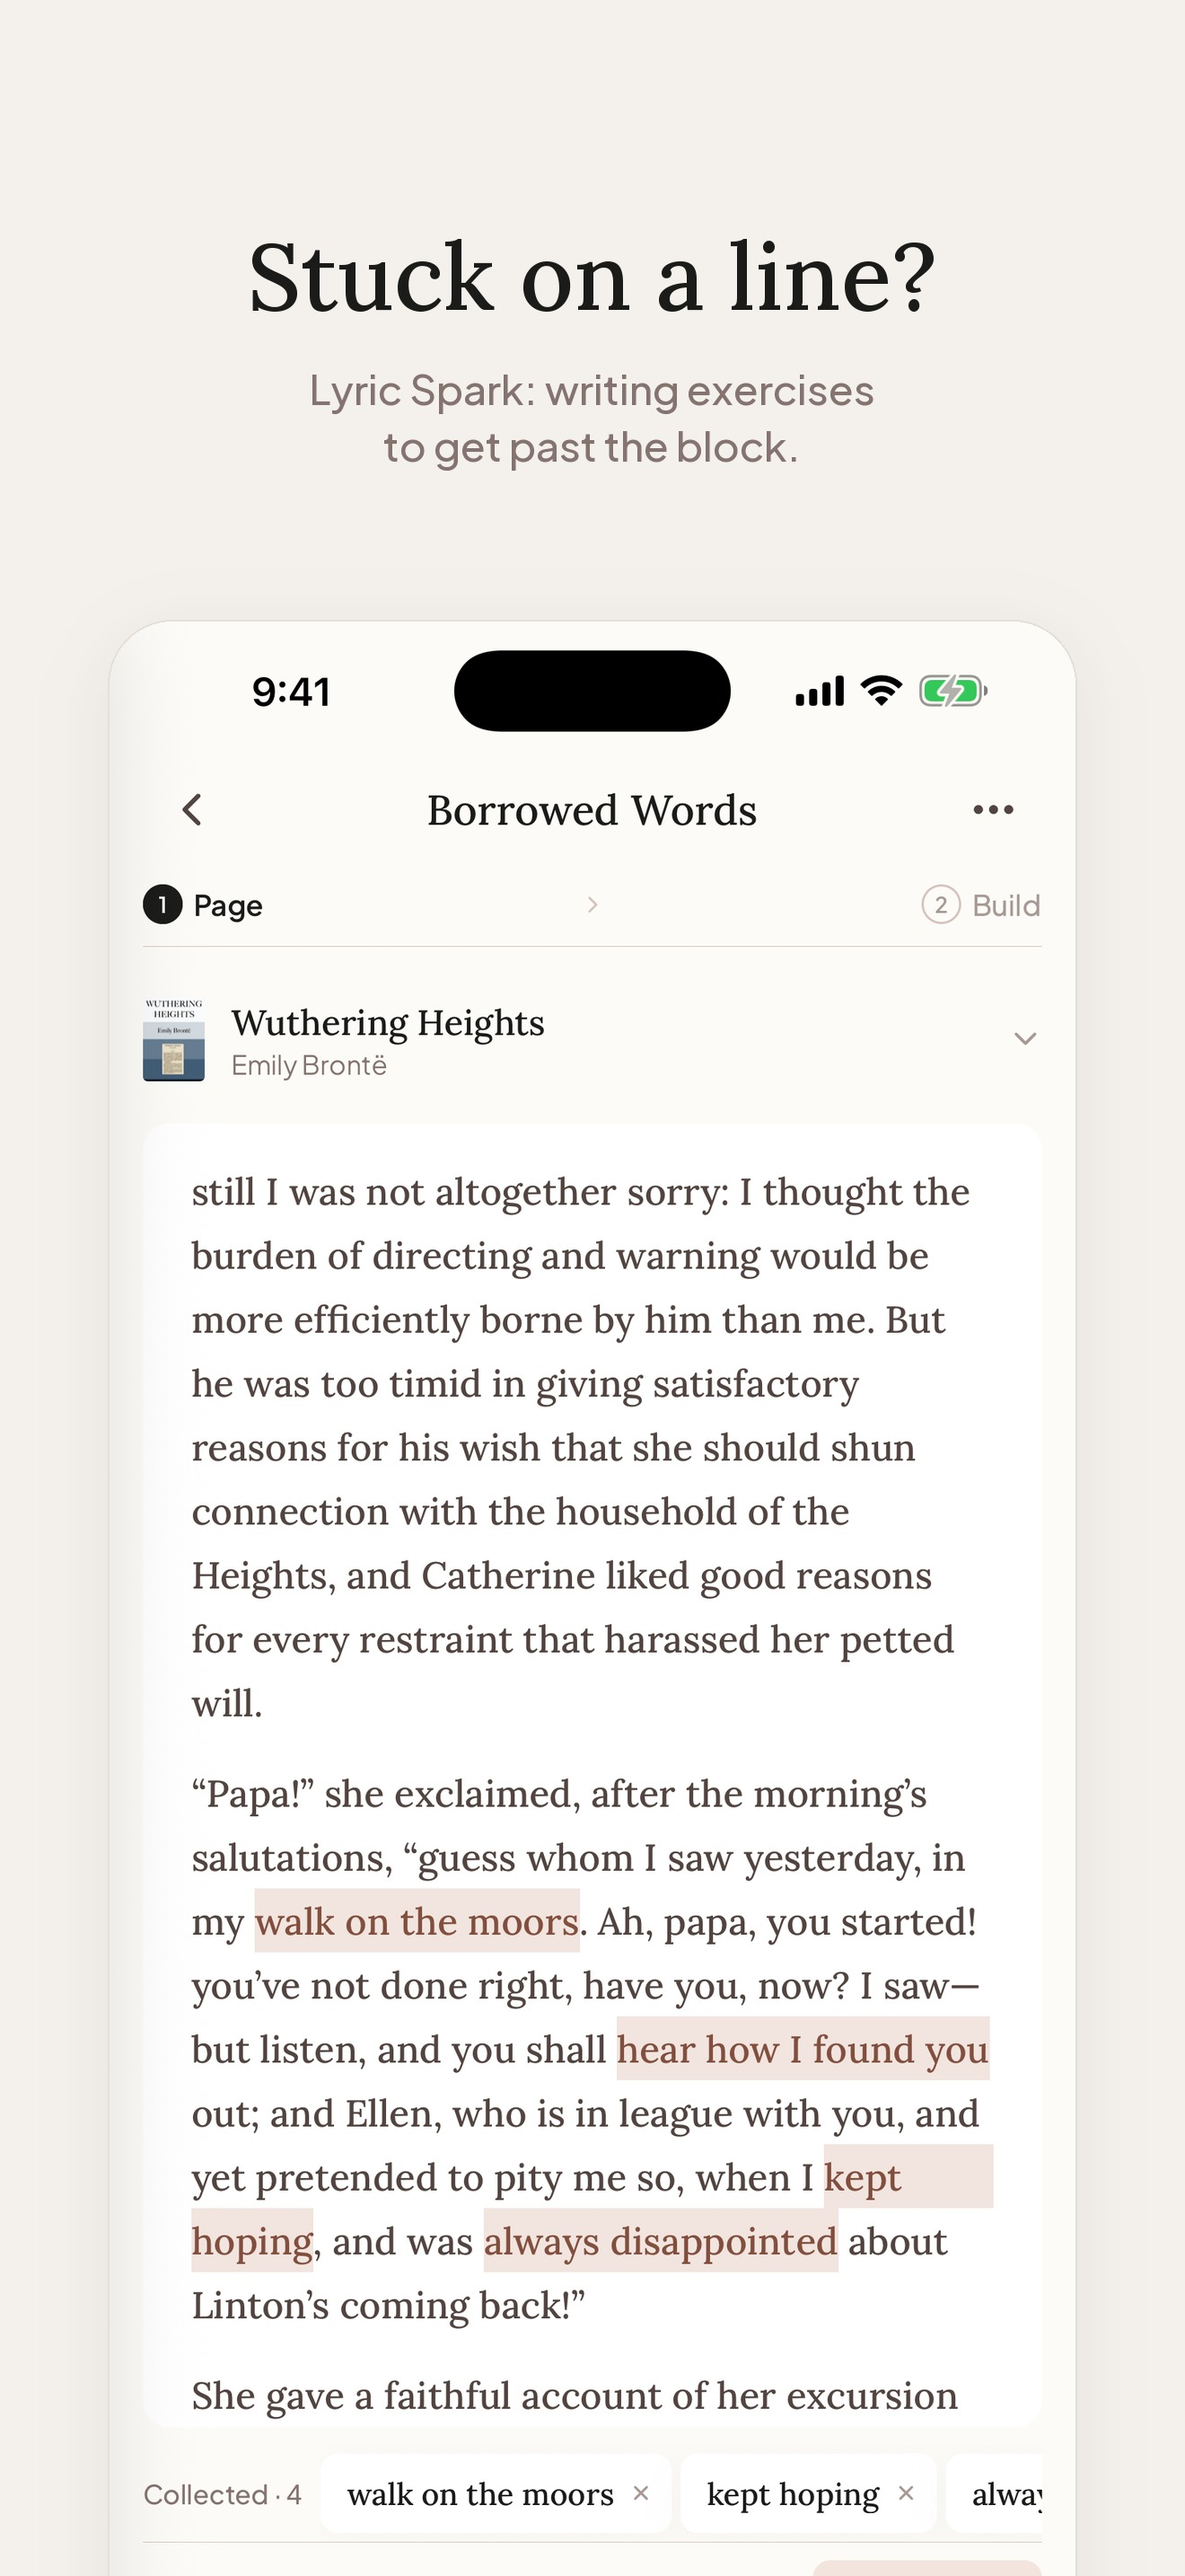
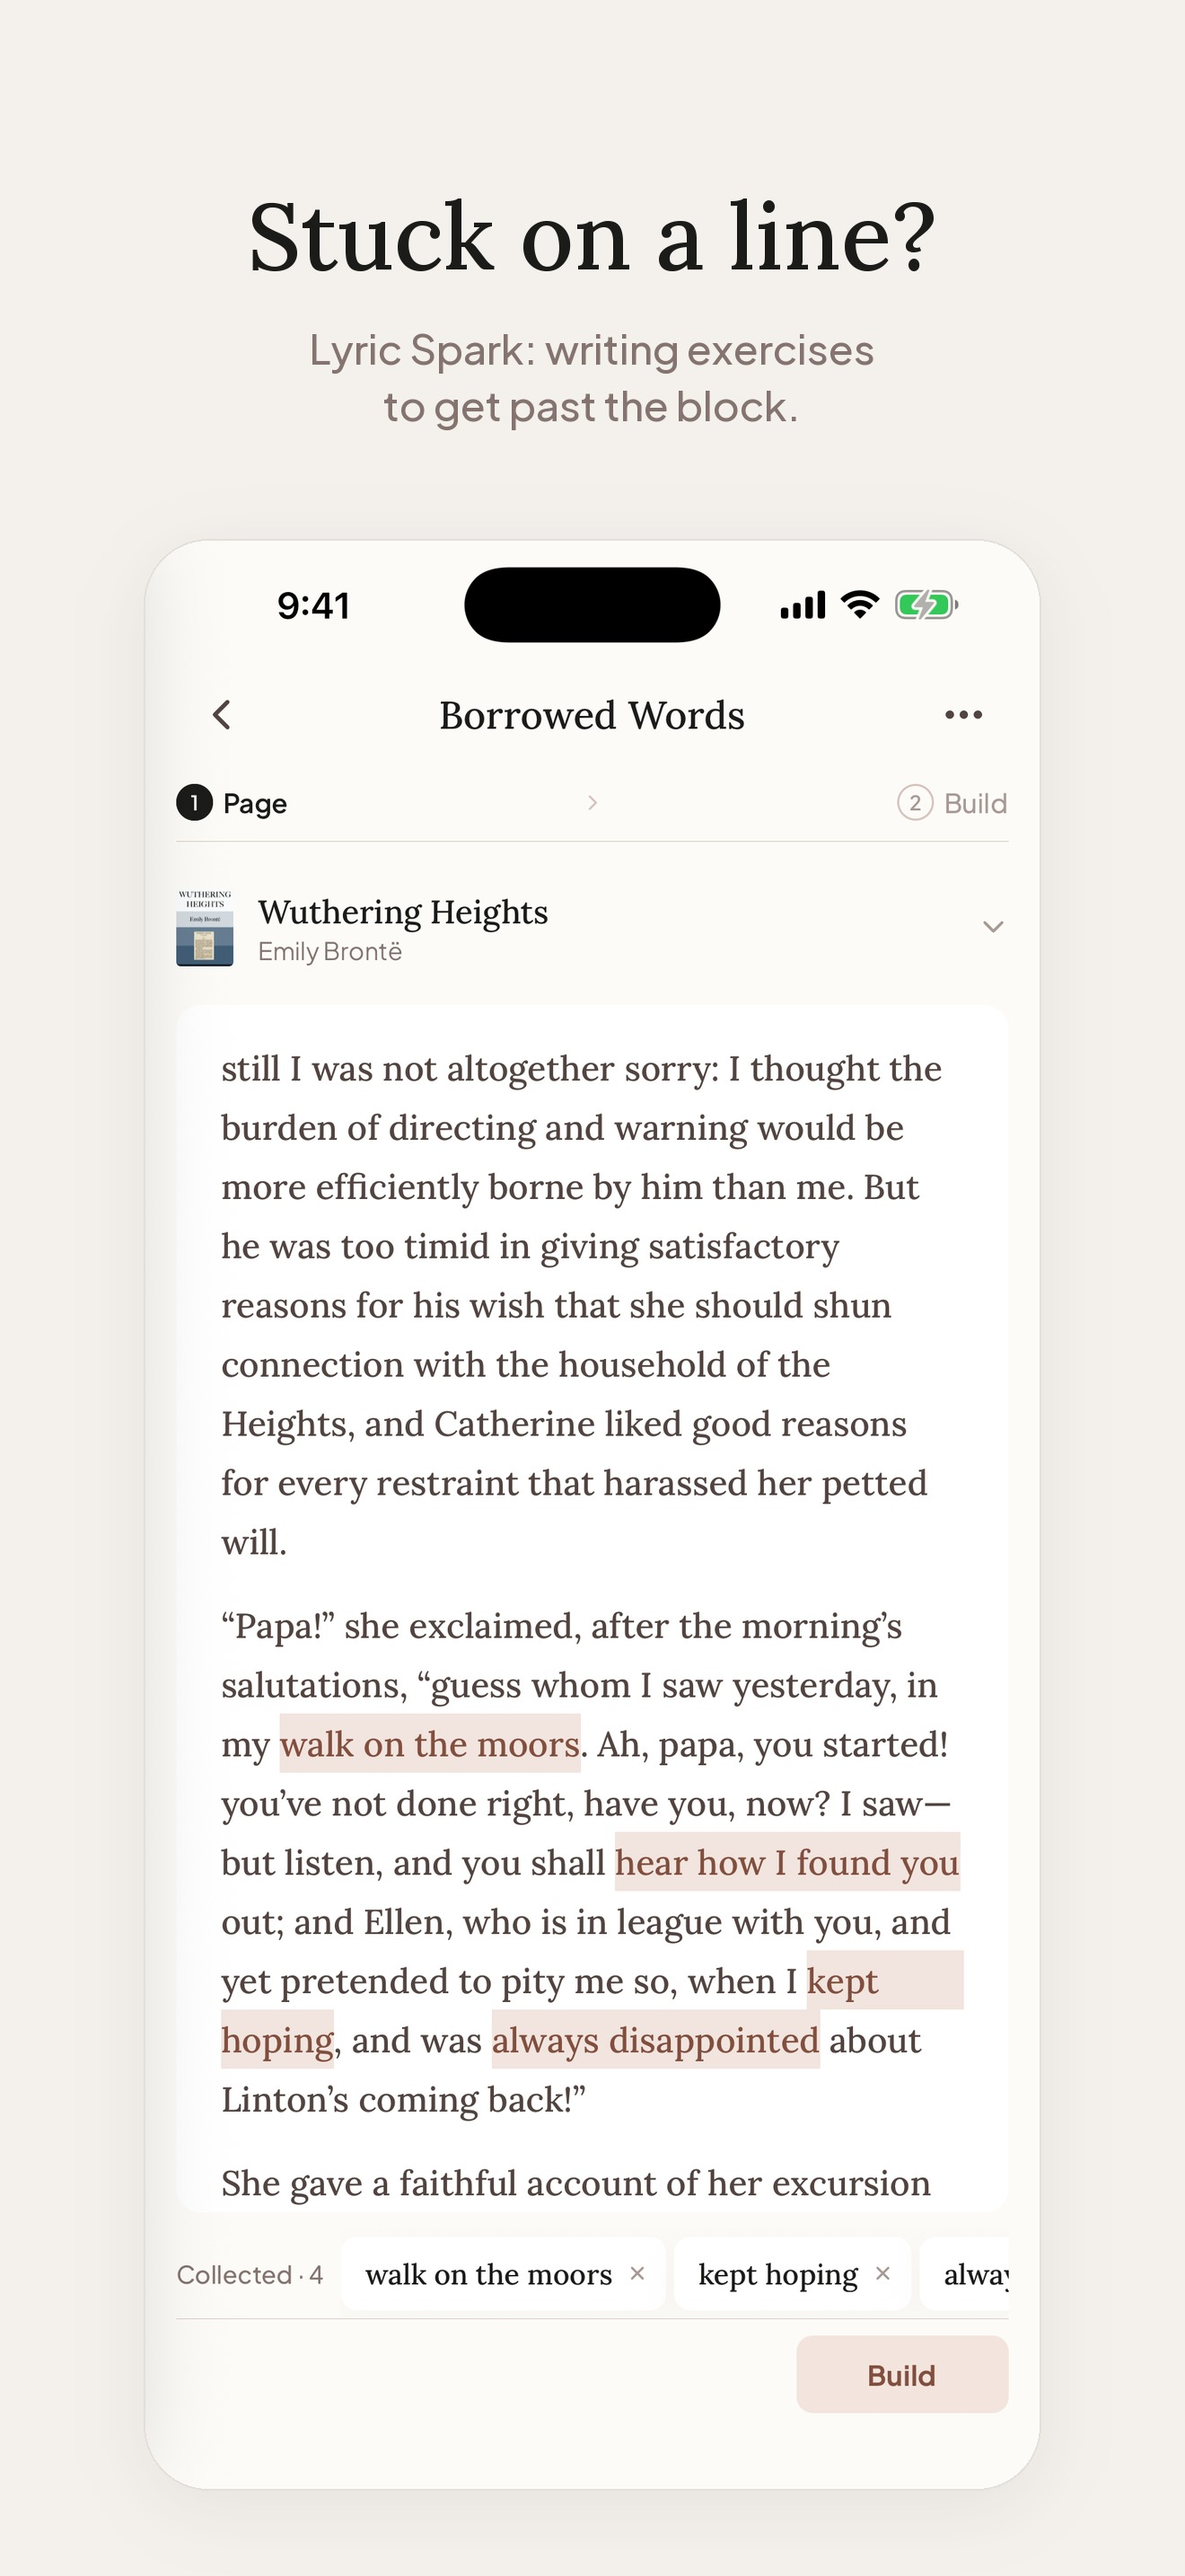
App Store screenshots show the whole screen

diff --git a/scripts/store/compose-screenshots.py b/scripts/store/compose-screenshots.py
@@ -1,8 +1,8 @@
 """Store screenshots: a caption on paper above a real screen.
 
-Apple's screen bleeds off the bottom. Play's canvas is shorter (at most 2:1), so a bleed
-there cut the main controls in half (the recorder's Pause, the record button); Play shows
-the whole screen instead, slightly smaller, with all four corners (founder, 2026-11-14).
+Both stores show the whole screen, with all four corners. A screen that bled off the
+bottom edge cut the main controls in half (the recorder's Pause, the record button): Play
+first, then Apple (founder, 2026-11-14, both times).
 
 Raw captures come from the iPhone 17 Pro Max simulator (1320x2868) with the demo
 library staged by the dev-only "Store library (dev)" collection menu row
@@ -32,9 +32,9 @@ SECONDARY = (0x84, 0x73, 0x6F)  # textSecondary
 
 # Play's frame is drawn at Apple's width, then scaled to 1080x2160.
 W, H = (1320, 2640) if TARGET == "play" else (1320, 2868)
-SCREEN_W, SCREEN_TOP = (900, 600) if TARGET == "play" else (1080, 690)
-# Play shows the whole screen; Apple's runs off the bottom edge.
-BLEED = TARGET != "play"
+SCREEN_W, SCREEN_TOP = (900, 600) if TARGET == "play" else (1000, 600)
+# Neither store bleeds: the whole screen shows (BLEED kept for a future frame that wants it).
+BLEED = False
 FRAMES = [
     ("01-capture", "recorder", "Catch it before it's gone", "Tap once and you're recording."),
     ("02-sketch", "sketch-b", "Every idea grows into a song", "Takes, versions and side ideas in one sketch."),

diff --git a/docs/product-plan/store-truth.md b/docs/product-plan/store-truth.md
@@ -266,7 +266,9 @@ Privacy Policy: https://songnook.app/privacy
 
 **Screenshots (founder approved 2026-11-09):** eight real screens from a demo library, each with
 a caption on paper above it. Apple: `apple/screenshots`, 1320×2868 (6.9"). Play: `play/screenshots`,
-1080×2160 (Play allows at most 2:1). Re-cut with `scripts/store/compose-screenshots.py` from
+1080×2160 (Play allows at most 2:1). Both stores show the whole screen (Play first, Apple on 2026-11-14 after the founder saw
+the live page cut the record button in half); Apple's new set goes up with the next iOS
+version. Re-cut with `scripts/store/compose-screenshots.py` from
 `raw/`; restage the library with the dev-only "Store library (dev)" collection menu row.
 In the consoles 2026-11-10: App Store Connect has the eight saved on the version page (its slot now
 takes 6.1"/6.3", so they went up resized to 1206×2622) with the three SHARE lines; Play has them
